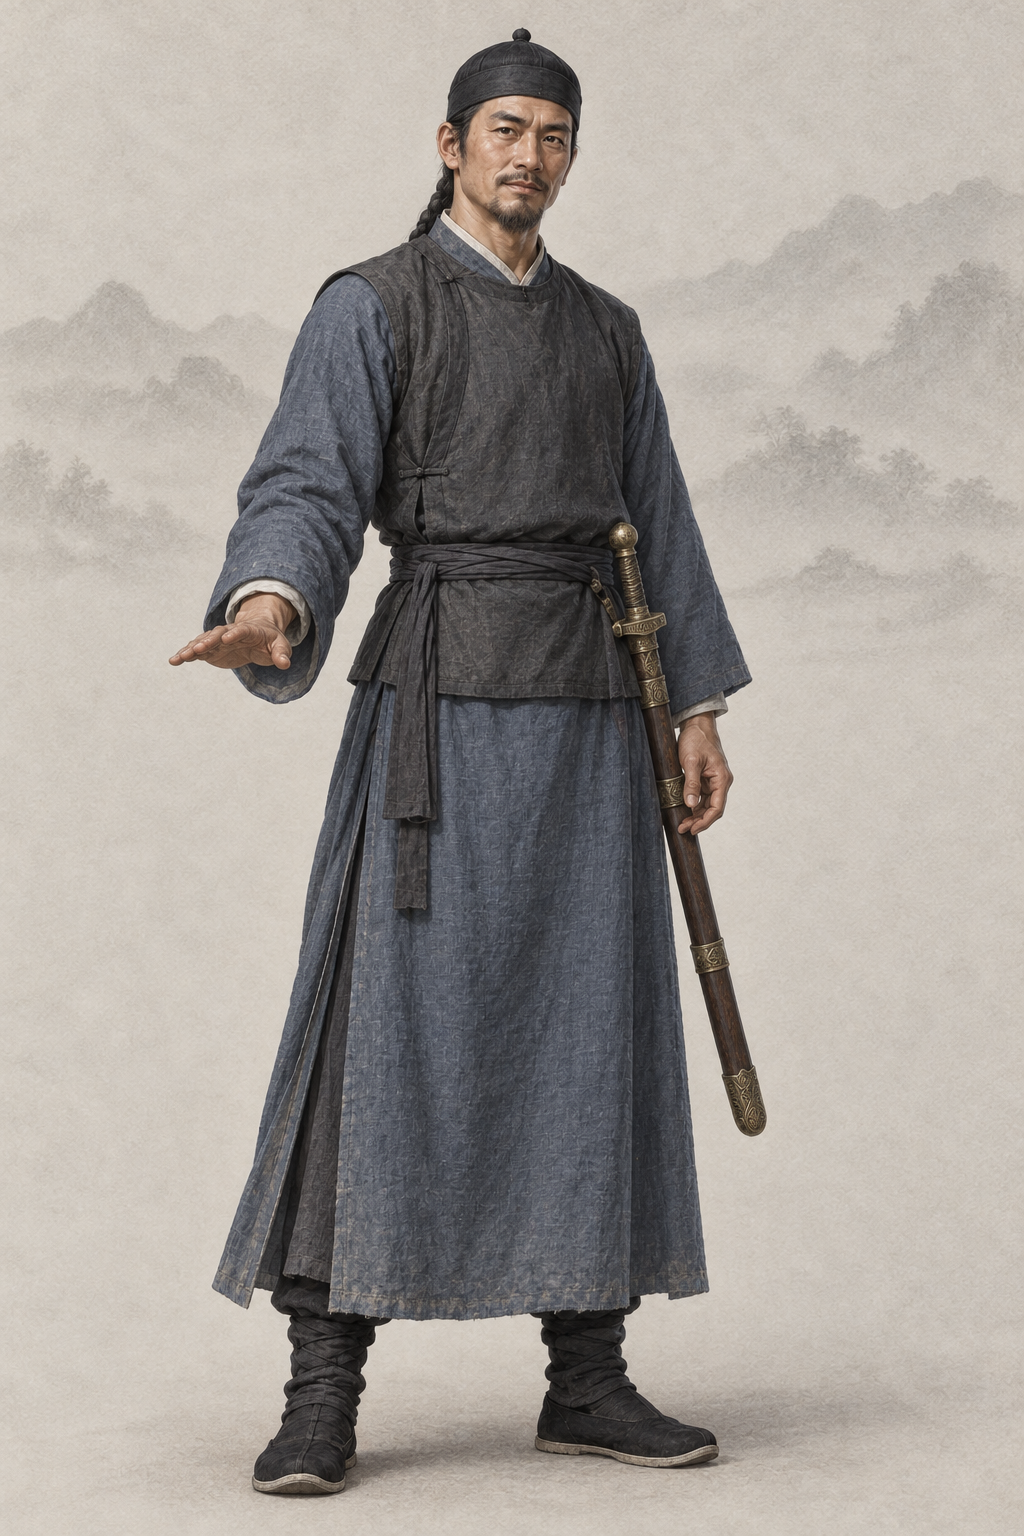
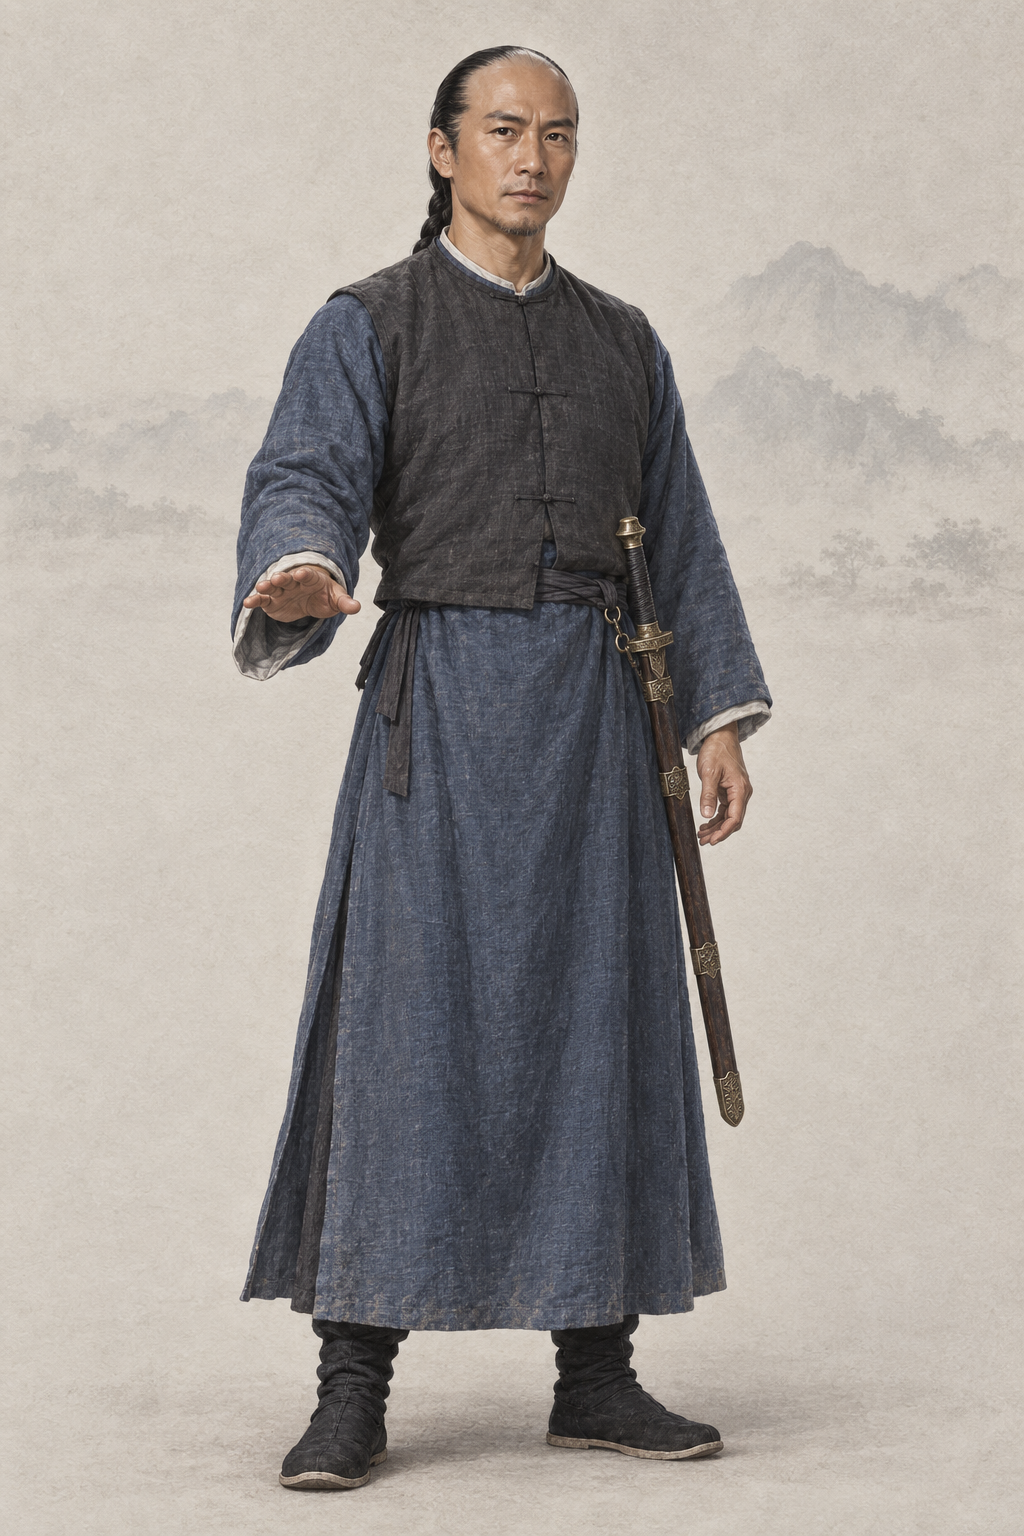
assets(character): por_npc_chenjinnan__ch08_prime_base 陈近南（codex · AR-32 经典剧照重出）
1998 年 TVB《鹿鼎记》剧照 1 张 + 基线；提示词写回「## Gemini 提示词」，上一版留作历史，frontmatter 加 classic_ref。

diff --git a/assets/default/prompts/characters/ch08-luding/npc_chenjinnan.md b/assets/default/prompts/characters/ch08-luding/npc_chenjinnan.md
@@ -15,15 +15,42 @@ references:
   use: 第二参考只提供暖浅灰不透明纸底、极浅低对比水墨远山、薄雾和留白。已实际view；完全忽略王语嫣本人面容、年龄、性别、身体、倾头、发髻、白青衣裙、飘带和饰物。水墨和纸纹仅在人物之外，不能侵蚀皮肤、衣料、头发或器物。
 status: redo
 redo_reason: "旧图以 1998 年剧集剧照为面部身份参考生成，有复刻真人面容的风险（本轮口径禁止）；现图神情冷硬、立领盘扣像近代唐装，撑不起“平生不见陈近南，便称英雄也枉然”的儒雅英雄气。"
-reference_upload:
-- assets/default/baseline/character/male/ref_npc_linghuchong__ch05_base01.png
 realism_revision: user_identity_pose_20261001
 codex_prompt_rev: 2026-10-02
+classic_ref:
+  version: "1998 年 TVB《鹿鼎记》"
+  stills:
+  - ".agents/coord/imagegen-reference/identity-20261001/luding/chenjinnan_1998_xiashaosheng_sina2019.jpg"
+  note: "剧照缩到长边 1024 的 JPEG 上传，放在两张同性别基线之前（AR-32）"
+reference_upload:
+- .agents/coord/imagegen-reference/identity-20261001/luding/chenjinnan_1998_xiashaosheng_sina2019.jpg
+- assets/default/baseline/character/male/ref_npc_linghuchong__ch05_base01.png
+- assets/default/baseline/character/male/ref_npc_xiaofeng__ch01_base01.png
 ---
 
 # 陈近南 · 人物写实修正
 
 ## Gemini 提示词
+
+> 2026-10-02 AR-32 经典剧照重出（6 号出图员，codex exec · image_gen 出图）：上传该角色经典影视版剧照 1 张（1998 年 TVB《鹿鼎记》：chenjinnan_1998_xiashaosheng_sina2019.jpg）在前、两张同性别基线在后。剧照只借鉴发型、服饰、配色、标志道具、气质与面部特征，重新绘制成项目画风，不照搬照片的构图、光影和姿势；人物一律成年；清代男子按清制剃额留辫。提示词里不写演员名。上一版提示词保留在下一节作历史。
+
+```text
+生成一张 2:3 竖幅全身人物立绘：单人、单一视角、完整全身——头顶、双手、双脚和手中器物的两端都在画面内，四周留出自然空白；人物站姿自然，身体基本朝向正面，头部端正（不歪头、不仰不俯），镜头平视。
+【参考图】随提示词上传 3 张参考图。第 1 张参考图是该角色经典影视造型的剧照：借鉴其发型、服饰、配色、标志道具、气质和面部特征，让人一眼认出是这个角色；但必须重新绘制成项目画风，不要照片质感，不要照搬剧照的构图、光影、背景和姿势，也不要做成照片修图。剧照与下文文字不一致的地方（年龄、所处阶段、帽饰与衣装细节、手中器物），以下文文字为准；画中人一律是成年人。最后两张是本项目画风基线：画风、用色、光线、质感和暖浅灰纸底加淡水墨背景以它们为准。
+【画风】写实手绘古风人物插画，与本项目写实武侠角色立绘同一画风，像功力深厚的画师用细腻笔触画出的真实人物。手绘插画质感，不是 CG 渲染：不要过度光滑的皮肤、完美对称的五官、塑料高光、过度锐利的发丝；保留自然的笔触和细微不完美。皮肤有真实质感——细小毛孔、细纹、晒痕和自然的左右不对称，不磨皮、不油亮；头发是一缕缕自然的发丝和少量碎发；布料看得出经纬纹理、厚薄和自然垂坠的褶皱，带穿用过的轻微旧化，但完整不破烂；整体设色低饱和、沉稳；柔和的自然光从左上方照来，明暗过渡自然，不打舞台光、轮廓光或美颜柔光。不是照片，不是三维渲染，不是动漫或游戏 CG，也不是油画（没有厚涂笔触和画布纹理）。
+【背景】不透明的暖浅灰色纸底，只在远处有极淡的水墨远山和薄雾，大面积留白；人物与背景明暗分明、轮廓边缘干净完整（后续要自动抠图），水墨和纸纹只在背景里，不侵入人物和衣服；脚下只有很淡的一点接触阴影。
+【人物】陈近南，《鹿鼎记》中天地会总舵主、韦小宝的师父，奔走联络各地会众的时期。
+【年龄与体态】约四十五岁的中年男子，身材高而挺拔，肩背宽展，沉稳有力，不是健美身材。
+【经典造型】要一眼认出是天地会总舵主陈近南——靛青长袍、墨色马褂、腰悬长剑、修整短须，儒雅英挺、目光温和坚定，有「平生不见陈近南，便称英雄也枉然」的英雄气度；相貌英俊、有魅力。
+【面容】脸以剧照为底子——保留剧照里这个角色的脸型、眉眼、鼻唇的比例关系和神气，画成成年人；儒雅英挺的长方脸，五官端正；额头高阔；眉毛浓黑修长，眉宇间有英气；眼睛明亮深邃，目光温和而坚定，有让人一见折服的领袖气度；鼻梁挺直；唇上与颏下蓄着修剪整齐的短须；肤色微深，有真实的风霜细纹。文武双全的英雄，既有书卷气又有担当。
+【发式】清初男子发式——前额和头顶前半剃光，脑后一条乌黑长辫垂在背后；不戴帽子。
+【服饰】清初文士便装——靛青色圆领大襟长袍（右衽），外罩一件墨色短马褂，灰白内衣领，腰系窄布带，黑布鞋；不要立领盘扣的近代唐装。
+【道具与姿态】腰间左侧佩一柄连鞘长剑（旧铜剑格）；右手掌心向下、低位略向前，像在安抚止争；左手自然靠近腰侧；端正站立。
+【不要】画面里不要任何文字、题款、印章、签名、水印、台标、边框、分格或多视图；不要第二个人；不要幼态（童颜、娃娃脸、婴儿肥、儿童或少年身材、大头小身）；不要塑料感皮肤、磨皮美颜、网红脸（尖下巴大眼高鼻的模板脸）、过度对称、浓妆、偶像式打光、蜡像感；不要照片质感、三维渲染或动漫大眼；不要歪头、斜镜头；不要多指、缺指（设定的伤残除外）、手与器物粘连或悬空；汉式交领必须右衽（穿着者的左襟压在右襟上），不要左衽（设定为少数民族服制的除外），不要水平镜像；不要现代物品、日式服饰或日本刀、发光特效、法阵或能量光。不要照片或照片修图的质感，不要照搬剧照的构图、光影、背景和姿势，不要剧照里的字幕、台标和水印。不要冷硬板脸；不要立领盘扣；不要照片感；不要官服或会徽标语。清初男子一律穿圆领大襟（衣襟从领口斜向右腋下扣合），不要汉式交领长衫，不要明代发髻或网巾。
+【画风基线】随提示词上传的参考图里，最后两张是本项目的立绘画风基线：只参考它们的画风、用色、光线、质感和暖浅灰纸底加淡水墨的背景处理，整体画风必须与它们一致——精细写实的数字手绘插画，不是油画，不要厚涂笔触和画布纹理。基线图只取画风，不取长相：不要照搬基线图里人物的长相、年龄、发型、服饰和姿势。
+```
+
+## 上一版 Gemini 提示词（2026-10-02 文字版；AR-32 经典剧照重出前，历史，不再用于出图）
 
 > 2026-10-02 Codex 人物线 2 号（AR-31）：在审核组稿上补一行「经典形象」（借鉴公认经典造型的发式、装束、配色、标志道具与气质，只写文字，不写演员名、不上传剧照），并补去 AI 化要求。本轮出图用下面第一个代码块；审核组原稿保留在其后的「审核组原稿」小节作历史。
 
